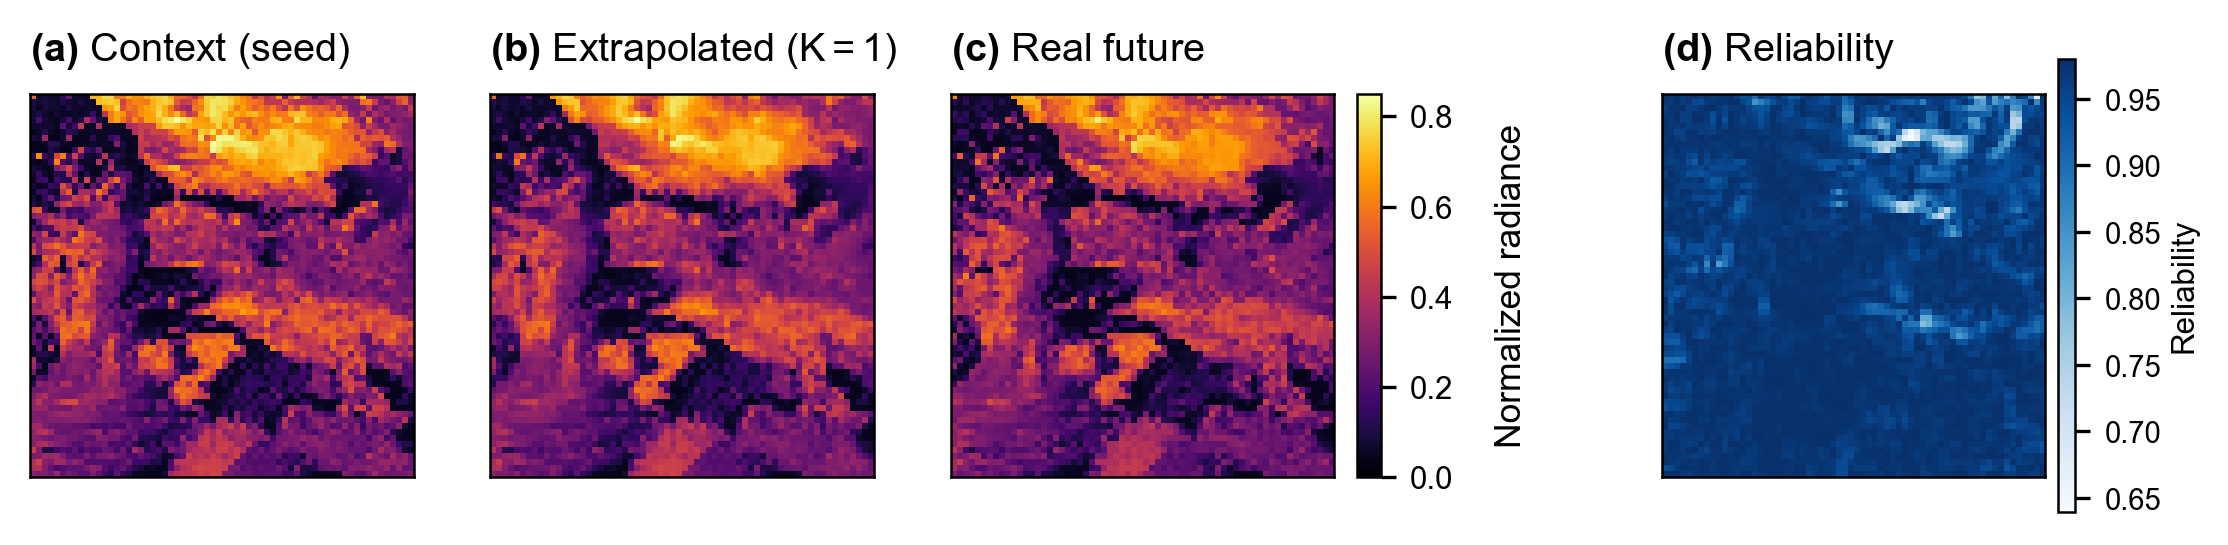
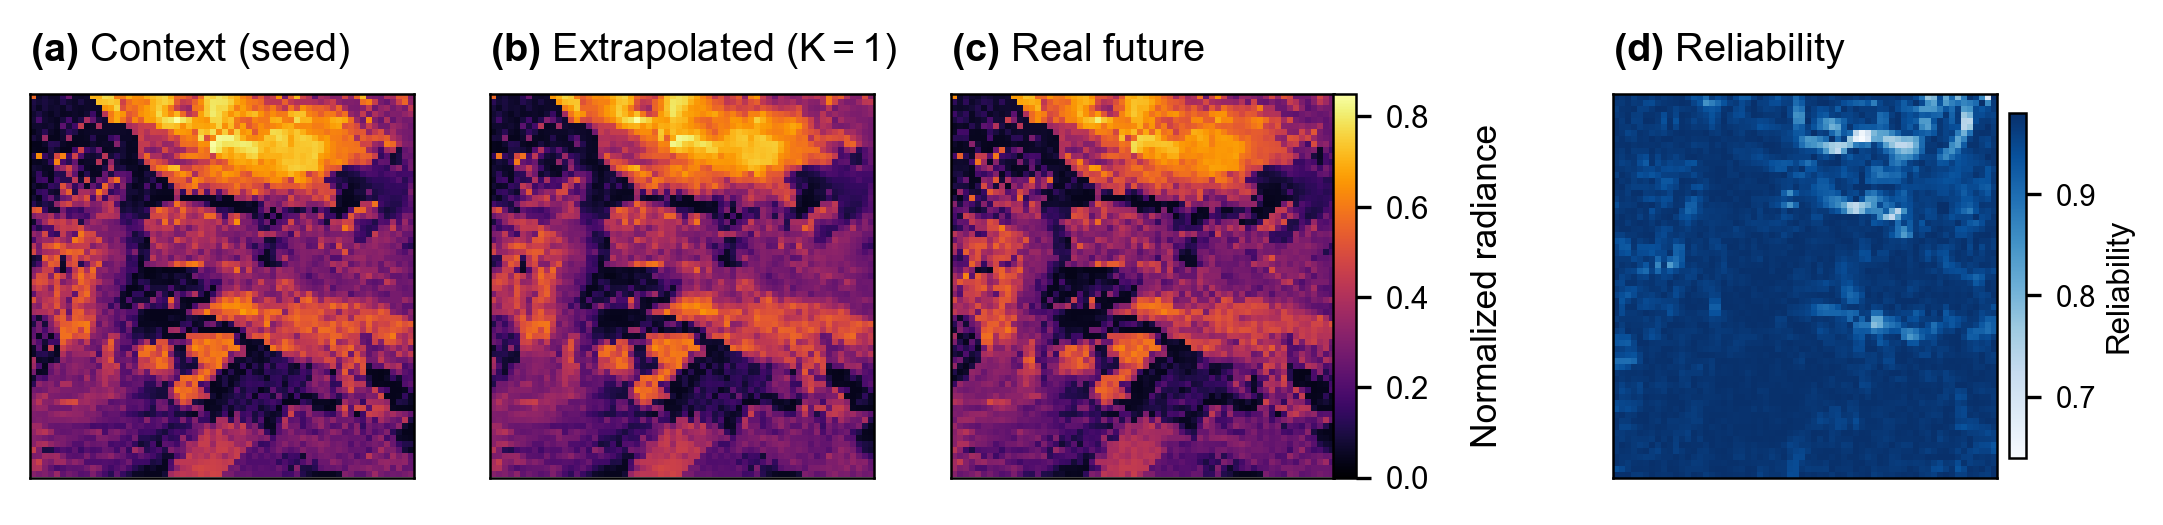
viz(essd-fig5a): closer to (d) (shift 0.118->0.095); reliability bar inset 12% top/bottom (annotation proportion, no longer a full-height ruler)

diff --git a/scripts/plot_essd_fig5a_sequence.py b/scripts/plot_essd_fig5a_sequence.py
@@ -92,7 +92,7 @@ def main() -> int:
     # Widen the (c)-(d) gap: move (d) to the freed right zone (slightly less
     # than before — the tighter (a-c) spacing already reclaims some width).
     pos_d0 = axs[3].get_position()
-    axs[3].set_position([pos_d0.x0 + 0.118, pos_d0.y0,
+    axs[3].set_position([pos_d0.x0 + 0.095, pos_d0.y0,
                          pos_d0.width, pos_d0.height])
 
     titles = (r"$\mathbf{(a)}$ Context (seed)",
@@ -131,8 +131,11 @@ def main() -> int:
         s.set_visible(True)
     # (d)'s own small bar, far right, same fixed-width rule; label shortened
     # to avoid repeating 'uncertainty' from the panel title.
-    cbu_ax = fig.add_axes([pos_d.x1 + 0.006, pos_d.y0,
-                           0.008, pos_d.height])
+    # Reliability bar slightly SHORTER than the image box (aesthetics: the
+    # bar should read as an annotation, not a full-height ruler).
+    inset = pos_d.height * 0.12
+    cbu_ax = fig.add_axes([pos_d.x1 + 0.006, pos_d.y0 + inset,
+                           0.008, pos_d.height - 2 * inset])
     cbar_u = fig.colorbar(hu, cax=cbu_ax)
     cbar_u.set_label("Reliability", fontsize=TEXT_SIZE_PT - 1,
                      rotation=90, labelpad=2)
